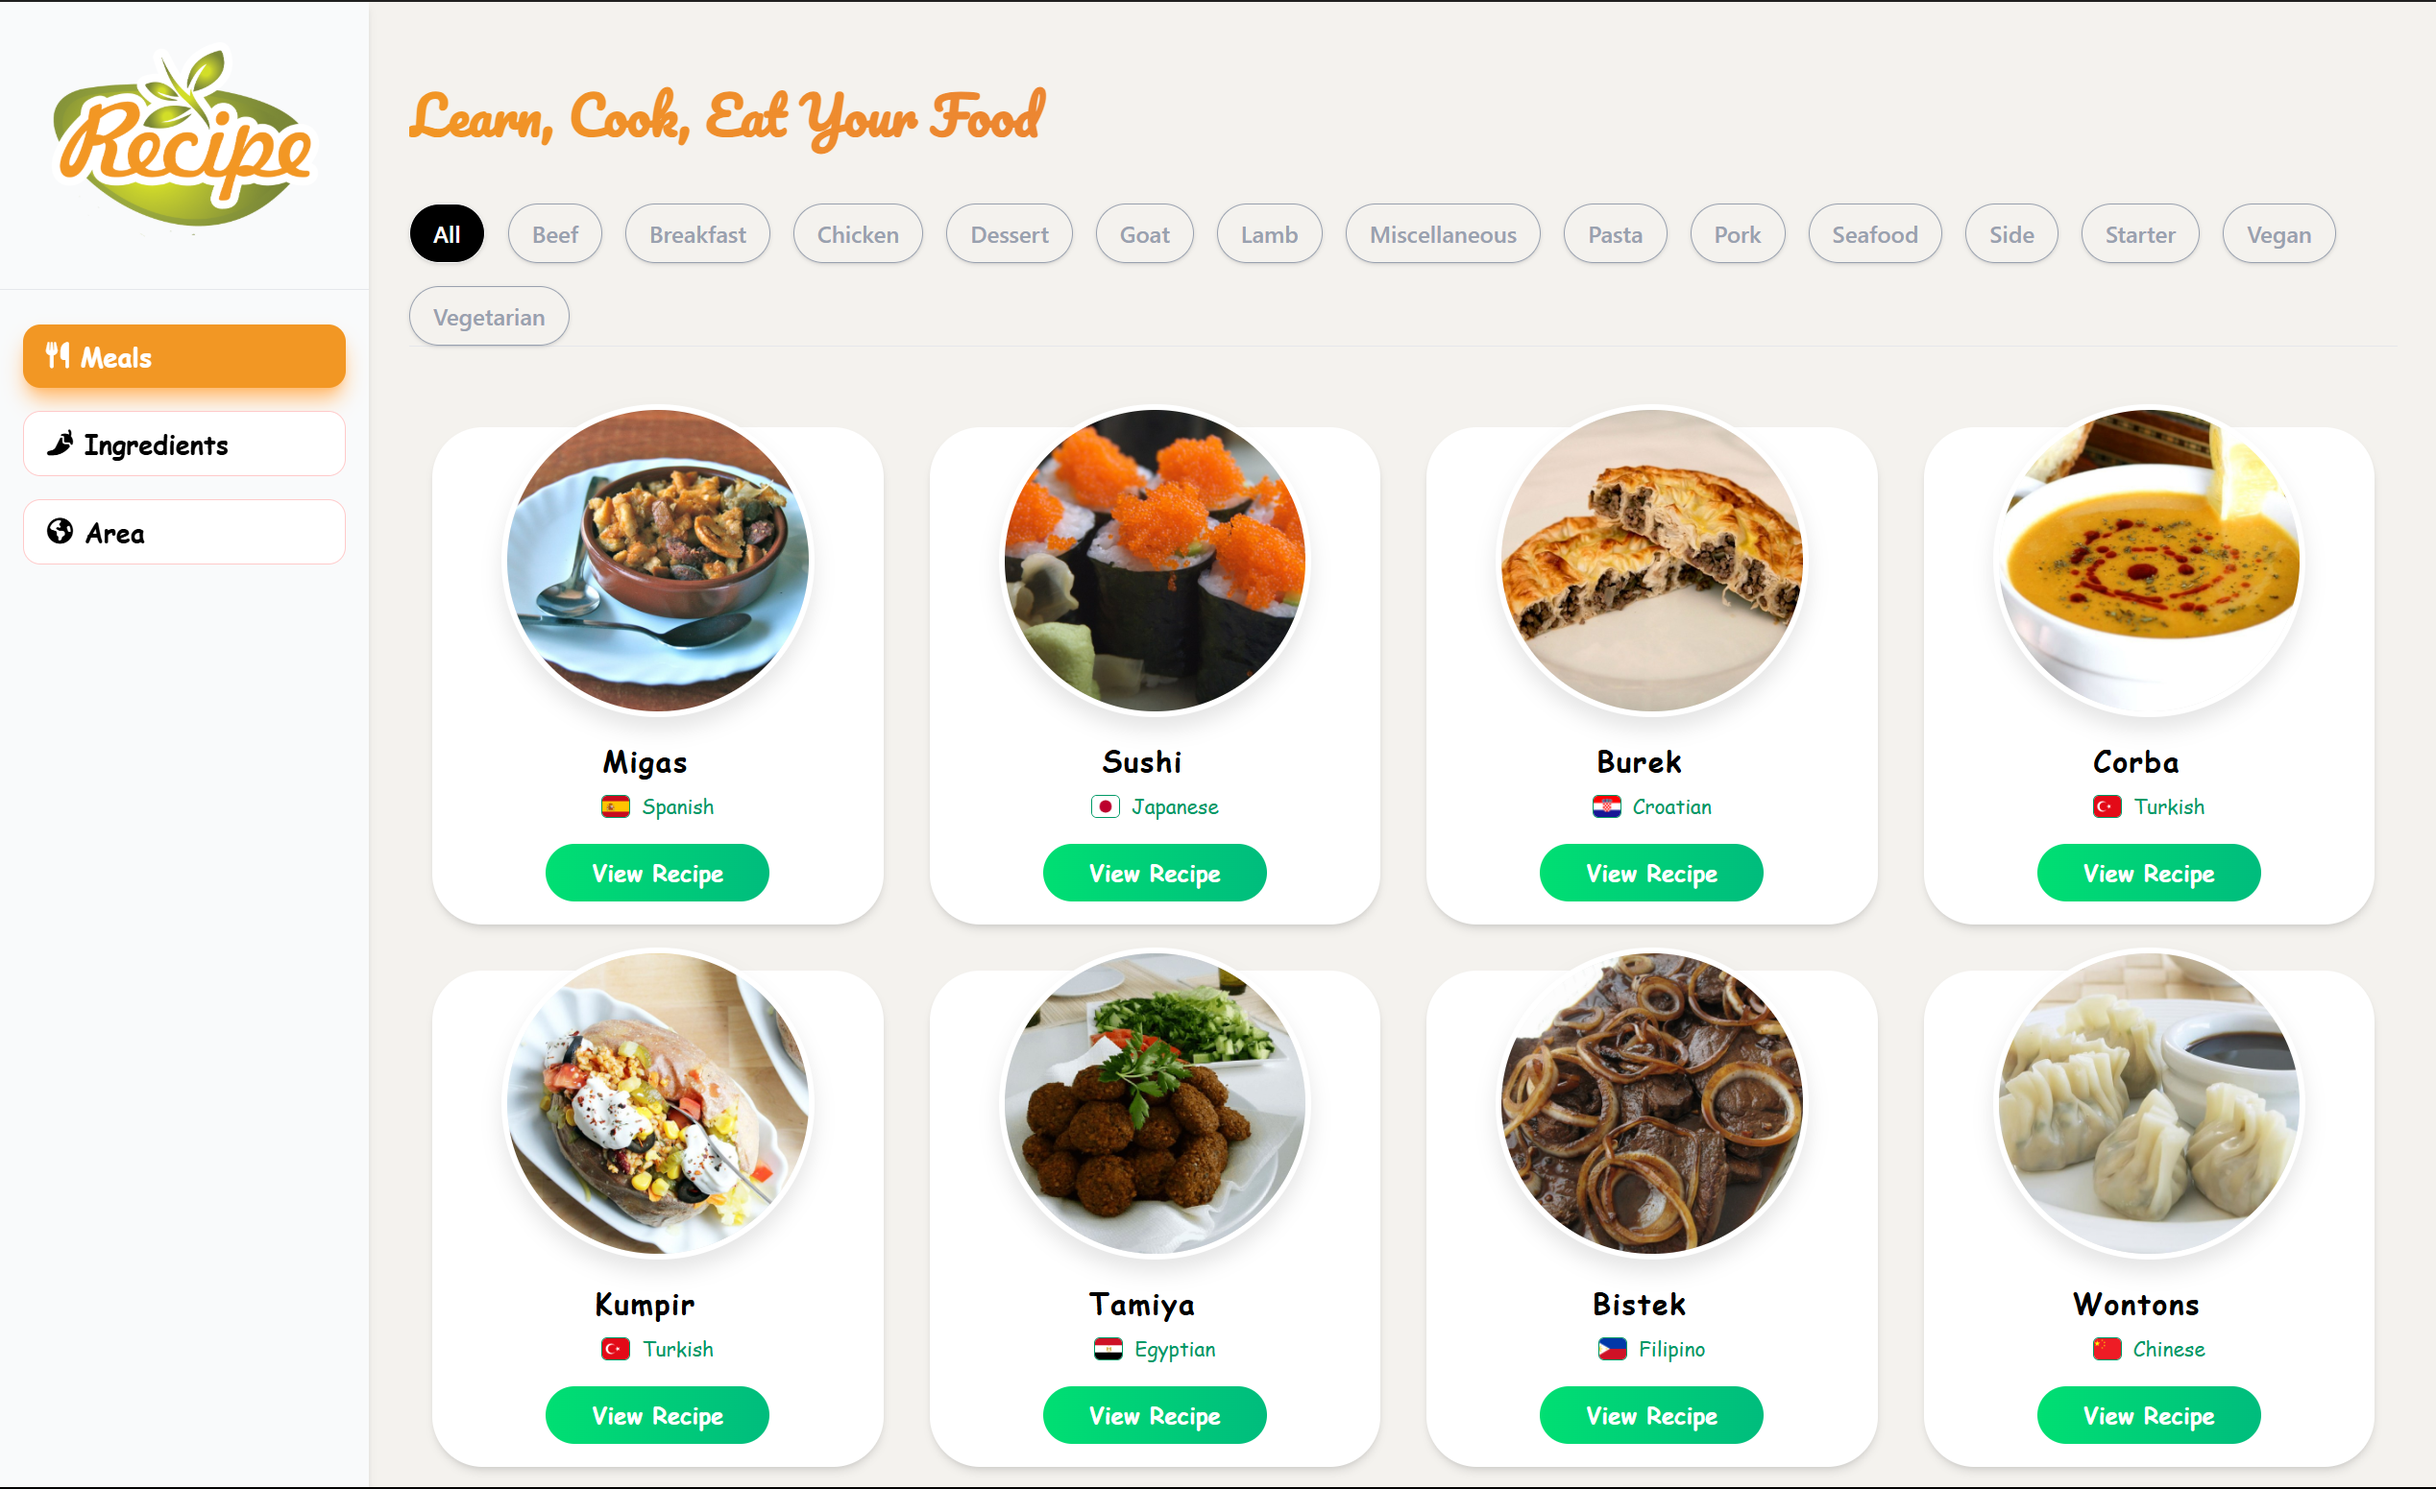
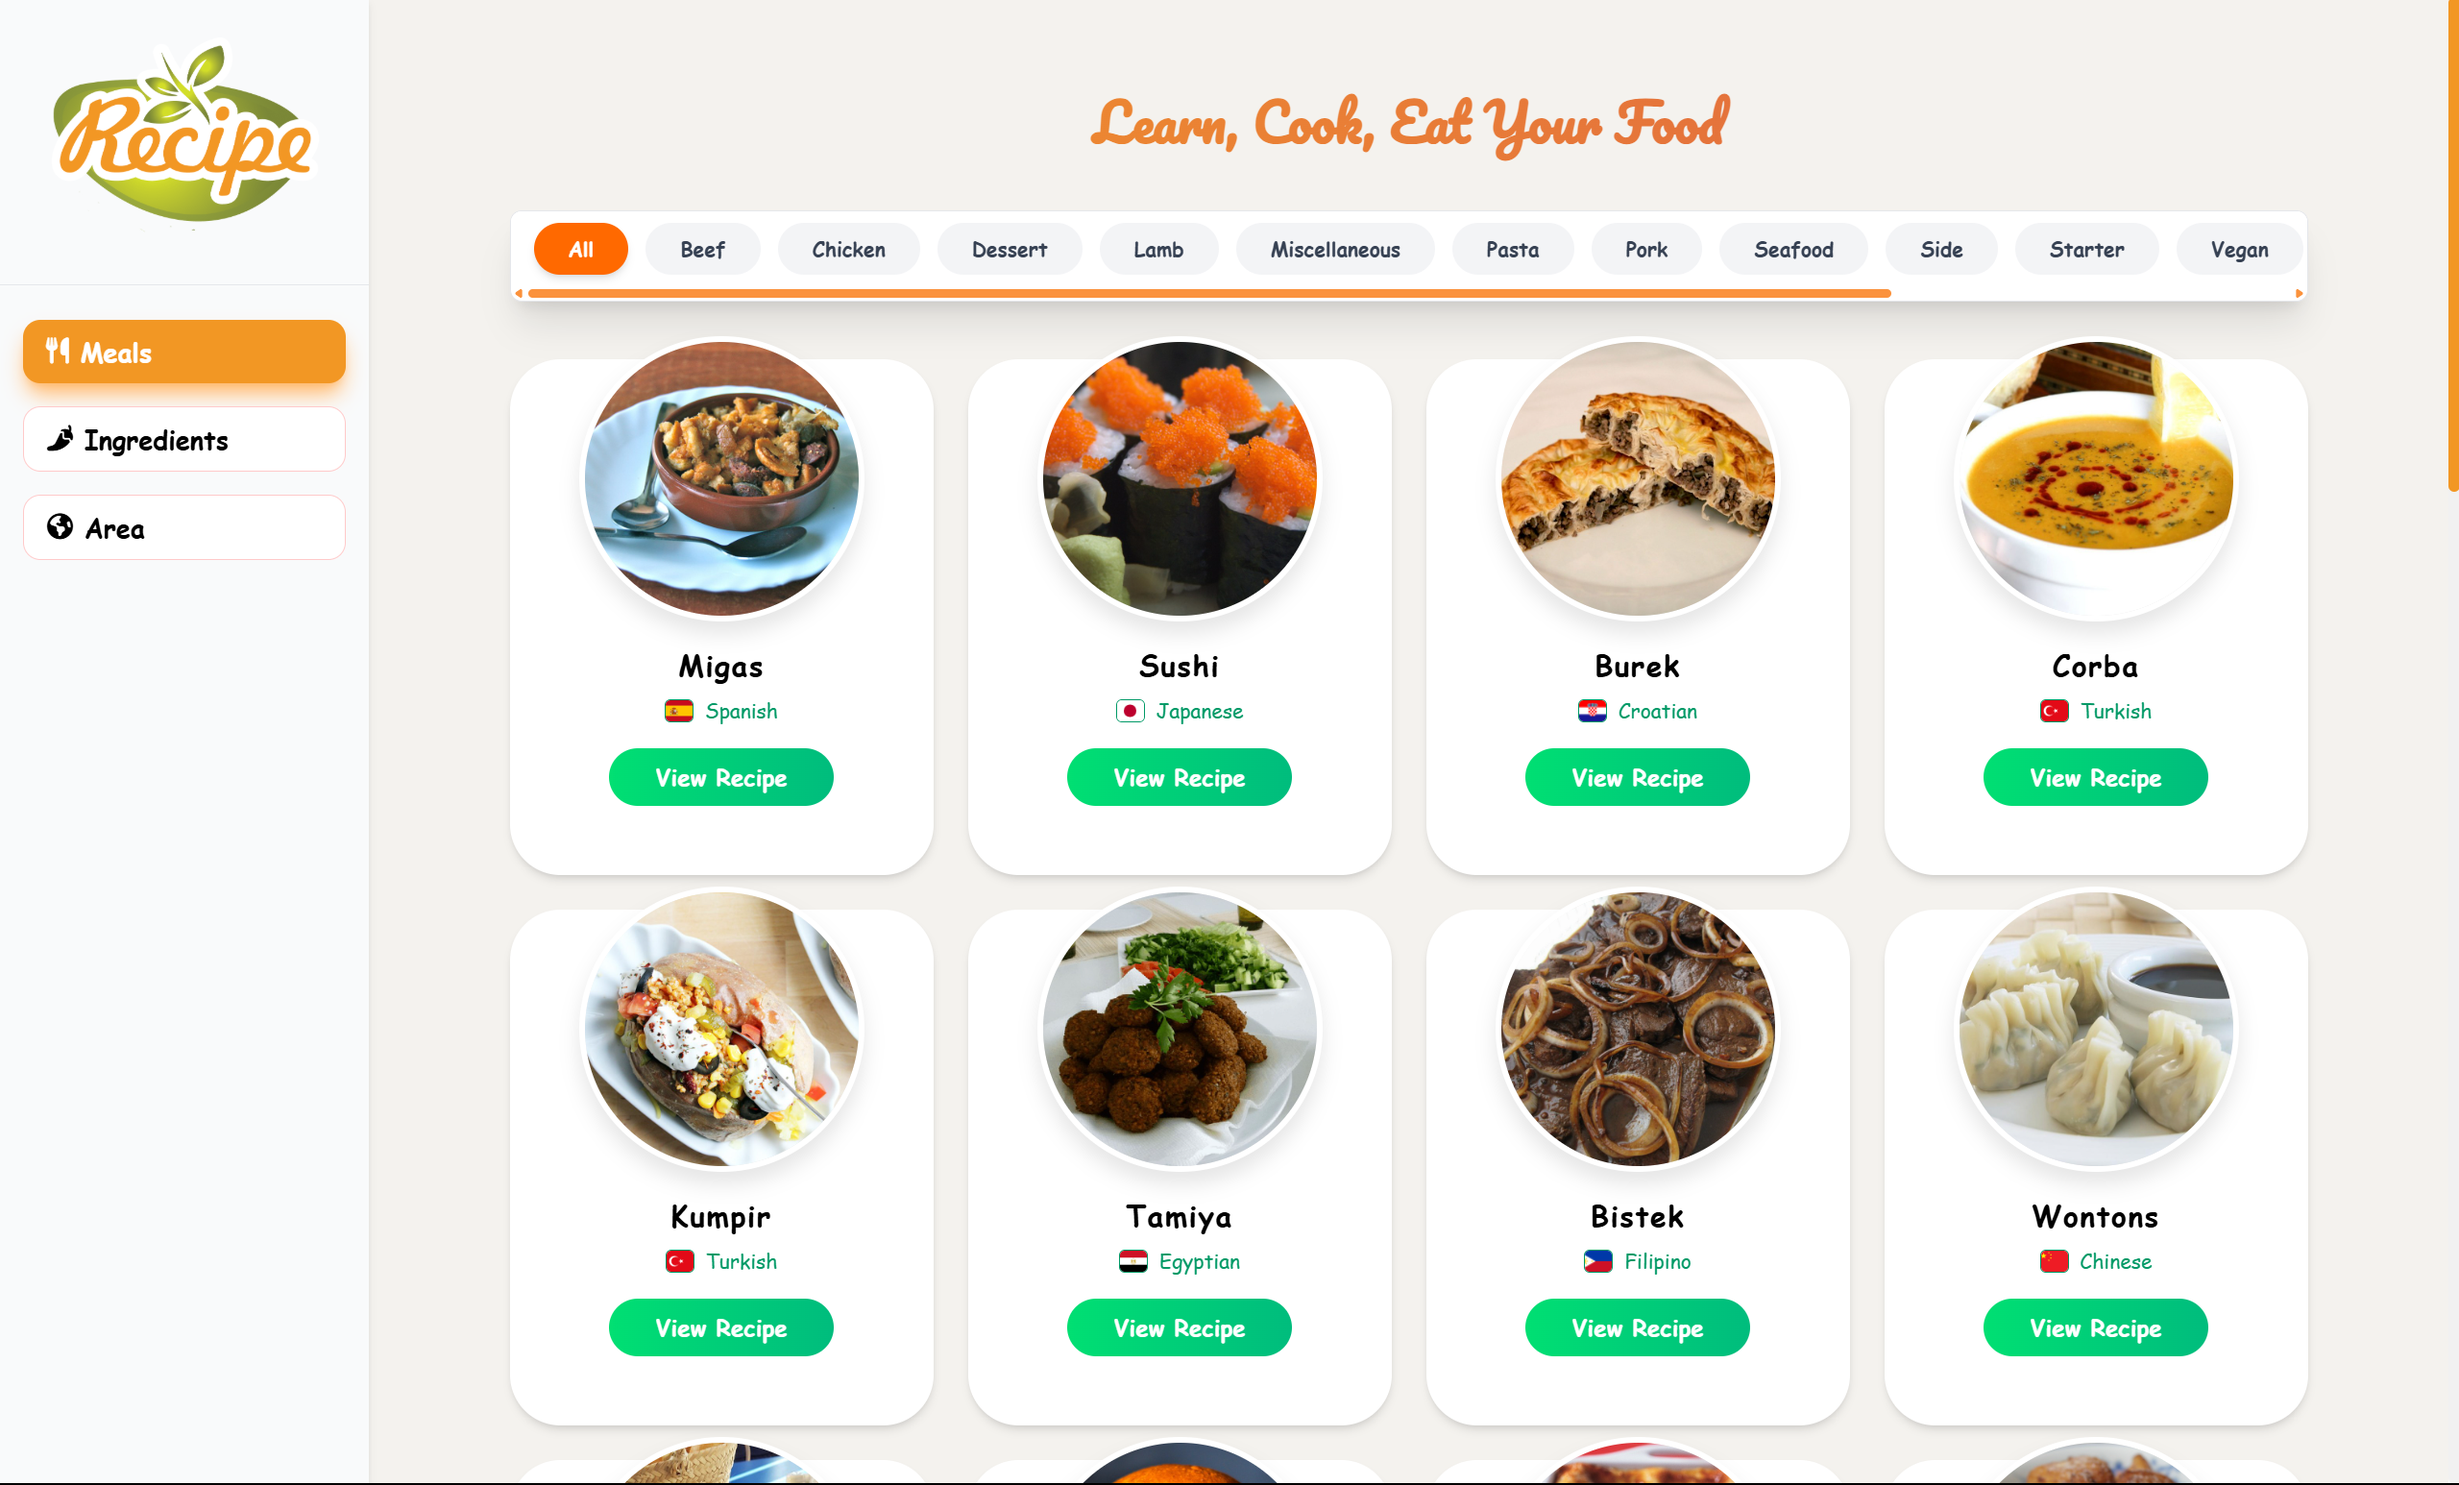
style(layout): enhance responsiveness

diff --git a/src/Components/SideBar/SideBar.jsx b/src/Components/SideBar/SideBar.jsx
@@ -1,15 +1,32 @@
 import React from 'react';
 import { NavLink } from 'react-router-dom';
-import logo from '../../assets/logo-BfNap0Pe.png';
+import logo from '../../assets/logo.png';
 
-function SideBar() {
+function SideBar({ onClose }) {
   const menuItems = [
     { to: '/', icon: 'fa-solid fa-utensils', text: 'Meals' },
     { to: '/ingredients', icon: 'fa-pepper-hot', text: 'Ingredients' },
     { to: '/area', icon: 'fa-earth-americas', text: 'Area' },
   ];
+
+  const handleNavClick = () => {
+    if (onClose) {
+      onClose();
+    }
+  };
+
   return (
-    <div className="bg-[#F9FAFB] fixed top-0 left-0 bottom-0 w-64 overflow-y-auto shadow-md">
+    <div className="bg-[#F9FAFB] h-full w-64 overflow-y-auto shadow-md">
+      <div className="lg:hidden flex justify-end p-4 border-b border-gray-200">
+        <button
+          onClick={onClose}
+          className="p-2 rounded-lg hover:bg-gray-100 transition-colors"
+          aria-label="Close menu"
+        >
+          <i className="fas fa-times text-xl text-gray-700"></i>
+        </button>
+      </div>
+
       <div className="p-4 border-b border-gray-200">
         <img src={logo} alt="Recipe" className="w-full object-contain" />
       </div>
@@ -17,16 +34,16 @@ function SideBar() {
         <ul className="space-y-4 font-medium font-cursive">
           {menuItems.map((item) => (
             <li key={item.to}>
-              <NavLink to={item.to}>
+              <NavLink to={item.to} onClick={handleNavClick}>
                 {({ isActive }) => (
                   <div
                     className={`
                       px-4 py-2 rounded-xl text-lg font-semibold transition-all
-                      hover:scale-105 hover:shadow-xl hover:shadow-orange-50
+                       hover:shadow-xl hover:shadow-orange-50
                       flex items-center
                       ${isActive
                         ? 'bg-[#F29724] text-white shadow-lg shadow-orange-300'
-                        : 'bg-white text-black border border-red-200'}
+                        : 'bg-white text-black border border-red-200 hover:bg-gray-100'}
                     `}
                   >
                     <i className={`fas ${item.icon} me-2`}></i>

diff --git a/src/index.css b/src/index.css
@@ -1,19 +1,117 @@
 @import "tailwindcss";
 @import url('https://fonts.googleapis.com/css2?family=Pacifico&display=swap');
 
+html {
+  scroll-behavior: smooth;
+}
+
+body {
+  font-family: -apple-system, BlinkMacSystemFont, 'Segoe UI', 'Roboto', 'Oxygen',
+    'Ubuntu', 'Cantarell', 'Fira Sans', 'Droid Sans', 'Helvetica Neue',
+    sans-serif;
+  -webkit-font-smoothing: antialiased;
+  -moz-osx-font-smoothing: grayscale;
+  overflow-x: hidden;
+}
+
 .font-pacifico {
   font-family: 'Pacifico', cursive;
   /* font-weight: 400; */
 }
 
-
 .font-cursive {
-  font-family:  cursive;
+  font-family: cursive;
   /* font-weight: 400; */
 }
 
+.active {
+  color: white;
+  background-color: #F29724;
+}
 
-.active{
-     color: white;
-     background-color: #F29724;
+.container {
+  width: 100%;
+  margin-left: auto;
+  margin-right: auto;
+  padding-left: 1rem;
+  padding-right: 1rem;
+}
+
+
+.custom-scrollbar::-webkit-scrollbar {
+  height: 6px;
+}
+
+.custom-scrollbar::-webkit-scrollbar-track {
+  background: transparent;
+}
+
+.custom-scrollbar::-webkit-scrollbar-thumb {
+  background-color: #fb923c;
+  border-radius: 4px;
+  transition: background-color 0.3s;
+}
+
+.custom-scrollbar::-webkit-scrollbar-thumb:hover {
+  background-color: #f97316;
+}
+
+.custom-scrollbar {
+  scrollbar-color: #fb923c transparent;
+  scrollbar-width: thin;
+}
+
+
+
+@media (min-width: 640px) {
+  .container {
+    max-width: 640px;
+  }
+}
+
+@media (min-width: 768px) {
+  .container {
+    max-width: 768px;
+  }
+}
+
+@media (min-width: 1024px) {
+  .container {
+    max-width: 1024px;
+  }
+}
+
+@media (min-width: 1280px) {
+  .container {
+    max-width: 1280px;
+  }
+}
+
+
+.text-responsive {
+  font-size: clamp(1rem, 2.5vw, 1.5rem);
+}
+
+* {
+  transition: color 0.2s ease, background-color 0.2s ease, transform 0.2s ease;
+}
+
+
+
+::-webkit-scrollbar {
+  width: 8px;
+}
+
+::-webkit-scrollbar-track {
+  background: #f1f1f1;
+  border-radius: 4px;
+}
+
+::-webkit-scrollbar-thumb {
+  background: #F29724;
+  border-radius: 4px;
+}
+
+::-webkit-scrollbar-thumb:hover {
+  background: #e0851f;
 }

diff --git a/src/Components/Layout/Layout.jsx b/src/Components/Layout/Layout.jsx
@@ -1,14 +1,47 @@
-import React from 'react';
+import React, { useState } from 'react';
 import SideBar from '../SideBar/SideBar';
 import { Outlet } from 'react-router-dom';
 import Footer from '../Footer/Footer';
 
 function Layout() {
+  const [isSidebarOpen, setIsSidebarOpen] = useState(false);
+  const toggleSidebar = () => {
+    setIsSidebarOpen(!isSidebarOpen);
+  };
+
   return (
     <div className="flex bg-[#F4F2EE] min-h-screen">
-      <SideBar />
-      <div className="flex flex-col flex-1 ms-64">
-        <main className="flex-grow px-3 py-4 overflow-auto">
+      {isSidebarOpen && (
+        <div
+          role="button"
+          tabIndex={0}
+          aria-label="Close sidebar"
+          onClick={toggleSidebar}
+          onKeyDown={(e) => e.key === 'Enter' && toggleSidebar()}
+          className="fixed inset-0 bg-[rgba(0,0,0,0.70)] z-40 lg:hidden cursor-pointer"
+
+        ></div>
+      )}
+      <div className={`fixed top-0 left-0 bottom-0 z-50 transition-transform duration-300 ease-in-out ${isSidebarOpen ? 'translate-x-0' : '-translate-x-full'
+        } lg:translate-x-0`}>
+        <SideBar onClose={toggleSidebar} />
+      </div>
+      <div className="flex flex-col flex-1 lg:ml-64 w-full">
+        <header className="lg:hidden bg-white shadow-sm border-b border-gray-200 px-4 py-3">
+          <div className="flex items-center justify-between">
+            <button
+              onClick={toggleSidebar}
+              className="p-2 rounded-lg hover:bg-gray-100 transition-colors"
+              aria-label="Toggle menu"
+            >
+              <i className="fas fa-bars text-xl text-orange-400"></i>
+            </button>
+
+            <h1 className="text-xl font-bold text-orange-500 font-cursive">Recipe</h1>
+            <div className="w-10"></div>
+          </div>
+        </header>
+        <main className="flex-grow px-3 py-4 lg:px-2 lg:py-6  overflow-auto">
           <Outlet />
         </main>
         <Footer />

diff --git a/index.html b/index.html
@@ -3,7 +3,7 @@
 
 <head>
   <meta charset="UTF-8" />
-  <link rel="icon" type="image/svg+xml" href="/vite.svg" />
+  <link rel="icon" type="image/svg+xml" href="/src/assets/chef.png" />
   <meta name="viewport" content="width=device-width, initial-scale=1.0" />
   <link href="https://fonts.googleapis.com/css2?family=Pacifico&display=swap" rel="stylesheet">
   <title>Recipe</title>
